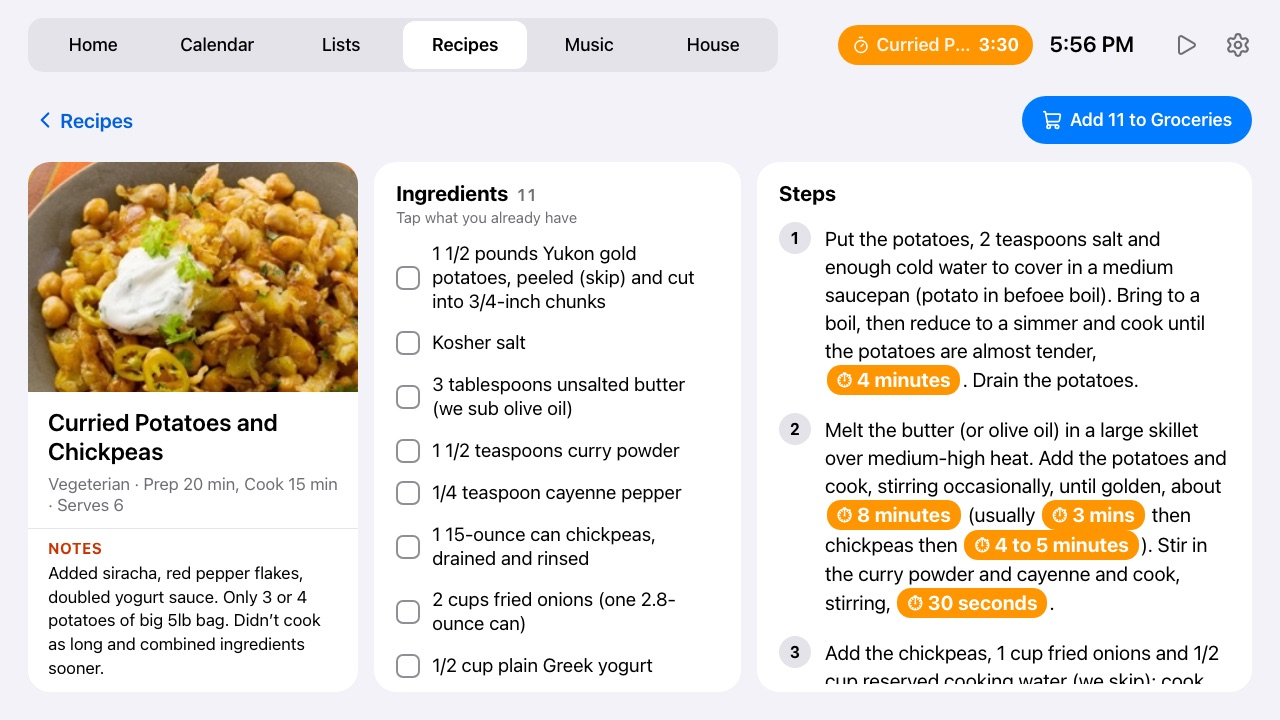
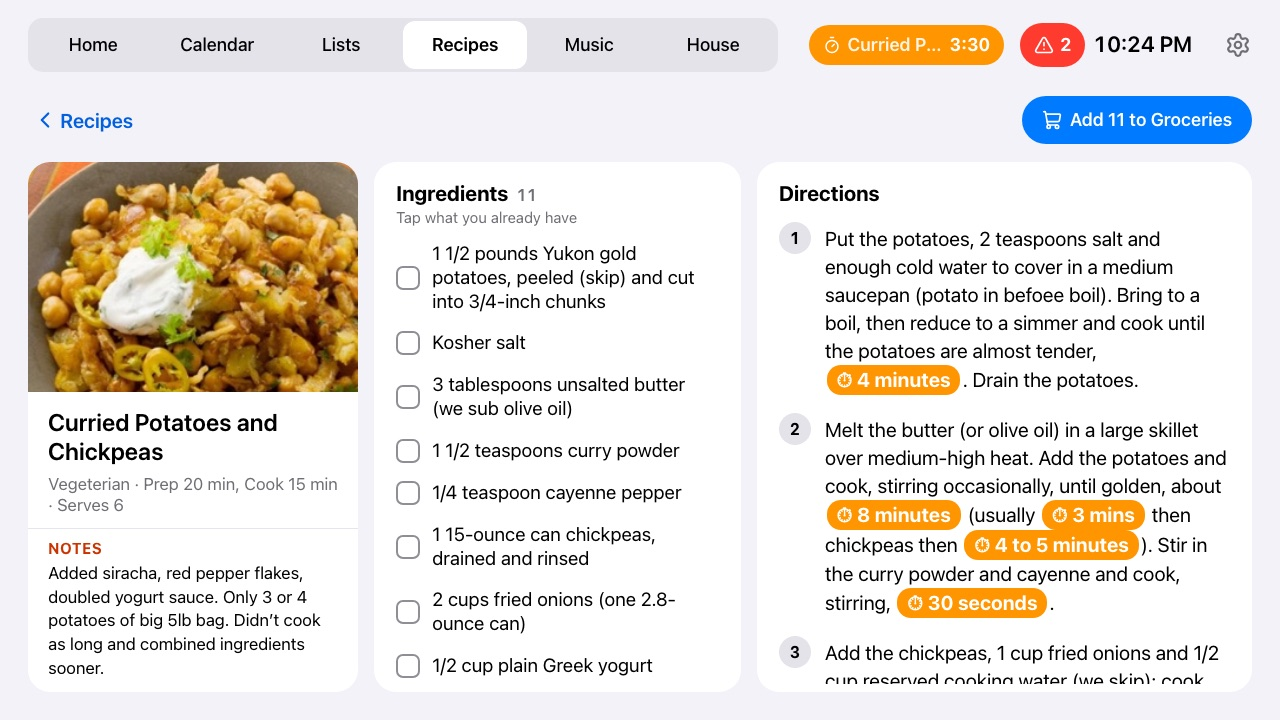
Recipes: tap a direction to mark your place; "Steps" becomes "Directions"
Tapping a direction highlights it as the current one (as Paprika does) and
checks off the ones before it; the place is kept for a few hours if you leave
the recipe. Timer buttons inside a direction still just start timers. The top
bar drops the slideshow button while a timer runs, so a timer chip and a
notice chip fit together. Recipe screenshot refreshed.

Claude-Session: claude --resume 8ada97f6-6e94-4d2f-928b-faf4e0c7a67c

Changed region(s): [[0.625, 0.0306, 0.9375, 0.0917], [0.5938, 0.2444, 0.6875, 0.3056]]

diff --git a/dashboard/src/views/RecipePage.svelte b/dashboard/src/views/RecipePage.svelte
@@ -1,3 +1,10 @@
+<script module>
+  // Where you are in each recipe's directions, kept while the page is open so leaving a recipe (or
+  // the clock screen taking over) and coming back keeps your place. Forgotten after 4 hours.
+  const places = new Map(); // recipe id -> { step, at }
+  const PLACE_MS = 4 * 3600 * 1000;
+</script>
+
 <script>
   import Icon from '../components/Icon.svelte';
   import { recipeTitle } from '../lib/format.js';
@@ -6,6 +13,15 @@
   import { startTimer, splitDurations } from '../lib/timers.svelte.js';
   let { recipe, onback } = $props();
   let showNutrition = $state(false);
+
+  // Tap a step to make it the current one: it's highlighted and the steps before it are checked off.
+  // Tap it again to clear. Times inside a step still start timers.
+  const saved = places.get(recipe.id);
+  let current = $state(saved && Date.now() - saved.at < PLACE_MS ? saved.step : -1);
+  function setStep(i) {
+    current = current === i ? -1 : i;
+    if (current < 0) places.delete(recipe.id); else places.set(recipe.id, { step: current, at: Date.now() });
+  }
 
   // A recipe opened from Explore has an "mdb:" id; a saved one has its own id, savedAt and maybe ref.
   // While loading, recipe is a stand-in with the card's title and photo (loading: true).
@@ -88,12 +104,15 @@
   </section>
 
   <section class="sheet steps">
-    <h2>Steps</h2>
+    <h2>Directions</h2>
     <ol class="scroll">
       {#if recipe.loading}{#each Array(4) as _, i (i)}<span class="ghost para"></span>{/each}{/if}
       {#each recipe.steps as step, i (i)}
         <!-- Times in a step ("bake 25 minutes") are buttons that start a timer named after the recipe. -->
-        <li><span class="num">{i + 1}</span><p>{#each splitDurations(step) as part, j (j)}{#if typeof part === 'string'}{part}{:else}<button class="tm" onclick={() => startTimer(recipeTitle(recipe.title), part.seconds)}>⏱ {part.text}</button>{/if}{/each}</p></li>
+        <!-- svelte-ignore a11y_no_noninteractive_element_interactions -->
+        <li class:on={i === current} class:done={i < current} onclick={() => setStep(i)} onkeydown={(e) => e.key === 'Enter' && setStep(i)}>
+          <span class="num">{#if i < current}<Icon name="check" size={18} />{:else}{i + 1}{/if}</span><p>{#each splitDurations(step) as part, j (j)}{#if typeof part === 'string'}{part}{:else}<button class="tm" onclick={(e) => { e.stopPropagation(); startTimer(recipeTitle(recipe.title), part.seconds); }}>⏱ {part.text}</button>{/if}{/each}</p>
+        </li>
       {/each}
     </ol>
   </section>
@@ -132,8 +151,16 @@
   .name { flex: 1; min-width: 0; font-size: 19px; }
   .have .name { color: var(--secondary); text-decoration: line-through; }
   .measure { font-size: 16px; color: var(--secondary); white-space: nowrap; }
-  ol { margin: 8px 0 0; padding: 0; list-style: none; }
-  li { display: flex; gap: 14px; padding: 8px 0 10px; }
+  /* overflow-x: the highlighted step reaches into the card's padding (negative margins) without a sideways scroll. */
+  ol { margin: 8px 0 0; padding: 0; list-style: none; overflow-x: hidden; }
+  .steps ol { margin-left: -10px; margin-right: -10px; padding: 0 10px; }
+  li { display: flex; gap: 14px; margin: 0 -10px; padding: 8px 10px 10px; border-radius: 14px; }
+  li:active { background: var(--press); }
+  /* The current step: highlighted like Paprika's tapped paragraph; earlier ones dim with a check. */
+  li.on { background: var(--press); }
+  li.on .num { background: var(--orange); color: #fff; }
+  li.done p { color: var(--secondary); }
+  li.done .num { color: var(--secondary); }
   li .num { flex: none; width: 32px; height: 32px; border-radius: 50%; display: grid; place-items: center; background: var(--track); font-size: 16px; font-weight: 700; }
   .ghost { display: block; border-radius: 8px; background: var(--track); }
   .ghost.photo { height: 230px; border-radius: 0; }

diff --git a/dashboard/src/App.svelte b/dashboard/src/App.svelte
@@ -72,7 +72,8 @@
       {#if ui.tab !== 'home'}<span class="num now">{time(clock.now)}</span>{/if}
       <!-- While a timer runs its chip takes this space; Home still shows the weather. -->
       {#if wx && !timers.list.some((t) => !t.done)}<button class="wxbtn" onclick={() => (ui.weatherDay = 0)} aria-label="Weather details"><span class="wx {info.tint}"><Icon name={info.icon} size={26} /></span><span class="num">{wx.temp}°</span></button>{/if}
-      <button class="gear play" onclick={startSlideshow} aria-label="Start slideshow"><Icon name="play" size={24} /></button>
+      <!-- The slideshow button also gives way to a running timer (with a notice chip there'd be no room). -->
+      {#if !timers.list.some((t) => !t.done)}<button class="gear play" onclick={startSlideshow} aria-label="Start slideshow"><Icon name="play" size={24} /></button>{/if}
       <button class="gear" onclick={() => (ui.settingsOpen = !ui.settingsOpen)} aria-label="Settings"><Icon name="gear" size={26} /></button>
     </div>
   </header>

diff --git a/README.md b/README.md
@@ -18,7 +18,7 @@ lists other frames that work.
 | --- | --- | --- |
 | ![Week view](docs/images/calendar-dark.jpg) | ![Tasks](docs/images/tasks-light.jpg) | ![Recipes](docs/images/recipes-light.jpg) |
 
-| Recipe with step timers | Music | House |
+| Recipe with timers in its directions | Music | House |
 | --- | --- | --- |
 | ![Recipe page](docs/images/recipe-page-light.jpg) | ![Music](docs/images/music-light.jpg) | ![House](docs/images/house-light.jpg) |
 
@@ -61,7 +61,7 @@ Go watch the video and star both repositories. See [CREDITS.md](CREDITS.md) for 
 
 | Feature | What it does |
 | --- | --- |
-| **[Paprika recipes](#our-recipes-from-paprika)** | A read-only sync of your library: categories, search, an A–Z index, your notes and nutrition. |
+| **[Paprika recipes](#our-recipes-from-paprika)** | A read-only sync of your library: categories, search, an A–Z index, your notes and nutrition. Tap a direction to mark your place; earlier ones are checked off. |
 | **Meal plan** | Paprika's planned meals on Home ("Dinner" at the top of Today) and a Meals view for the week. |
 | **[Timers](#timers)** | Tap a time, then a name (Pasta, Oven). Recipe steps' times are buttons. A chip on every screen, then a chime, a full-screen alert and an Echo announcement. |
 | **Lists** | Groceries and Tasks in one tab, and side by side on Home. |
